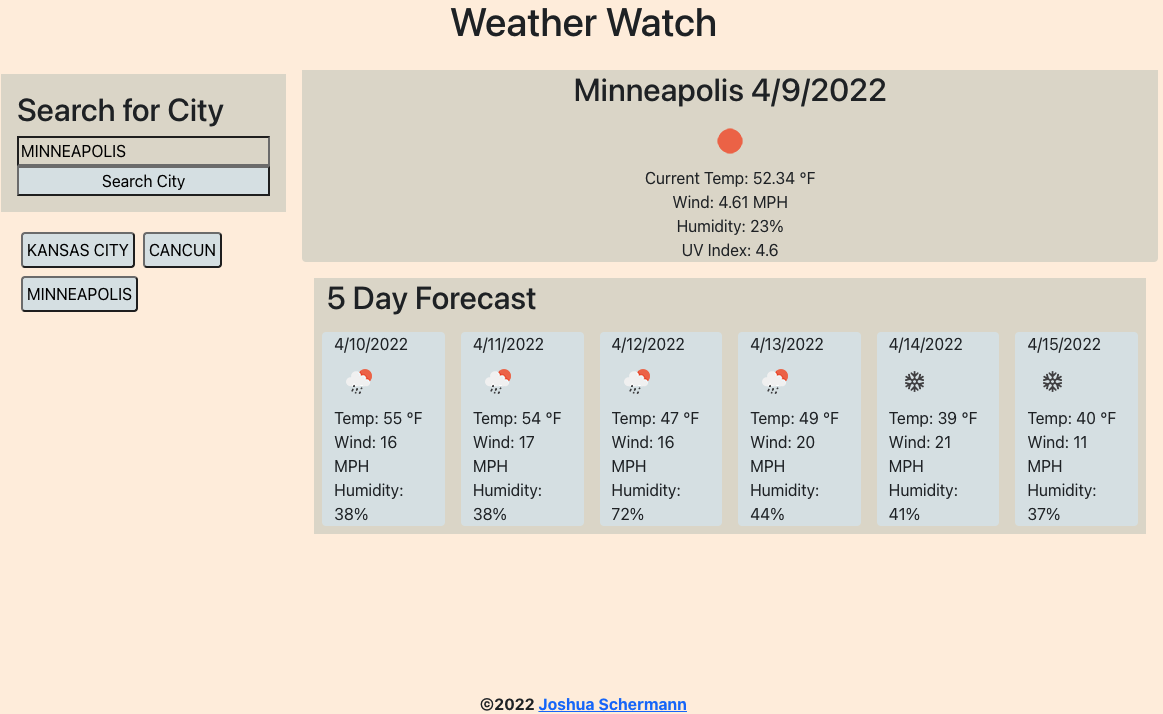
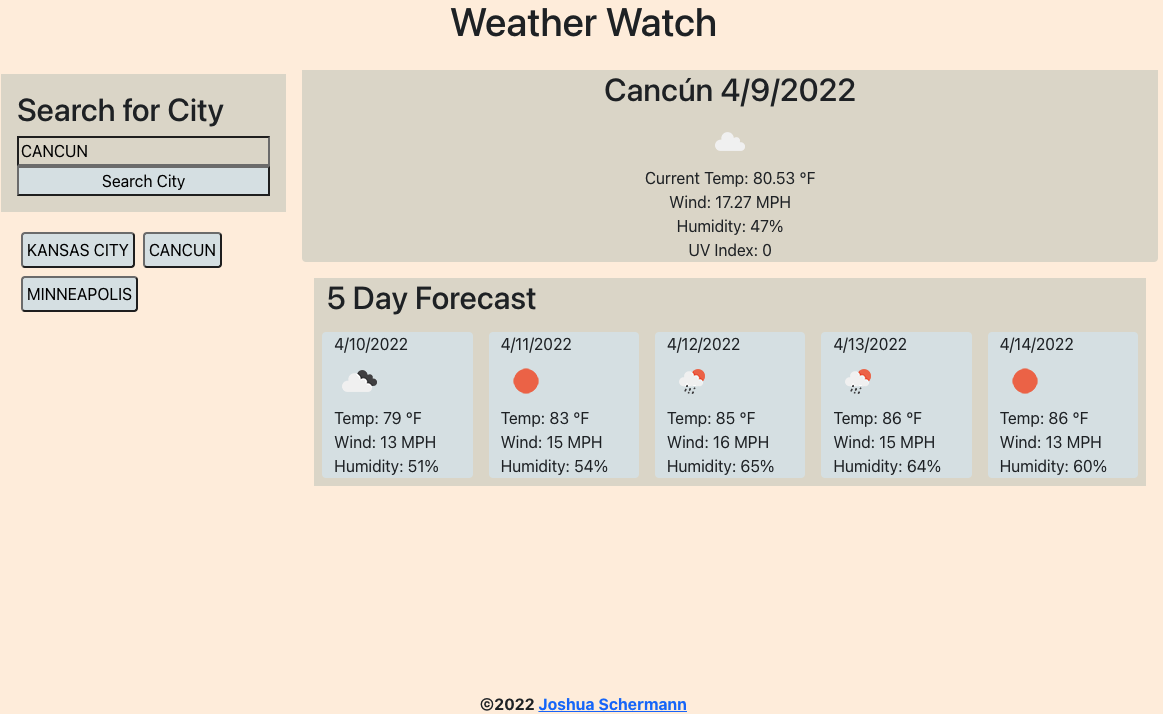
removed extra forecast day

diff --git a/src/components/CityForm/index.js b/src/components/CityForm/index.js
@@ -38,7 +38,7 @@ const CityForm = () => {
   const fiveDayForecast = () => {
     const fiveDays = [];
 
-    for (let i = 0; i <= 5; i++) {
+    for (let i = 0; i < 5; i++) {
       fiveDays.push(
         <div
           key={i}
